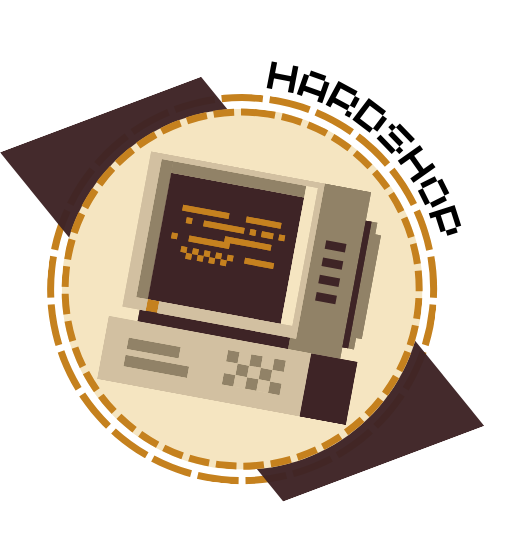
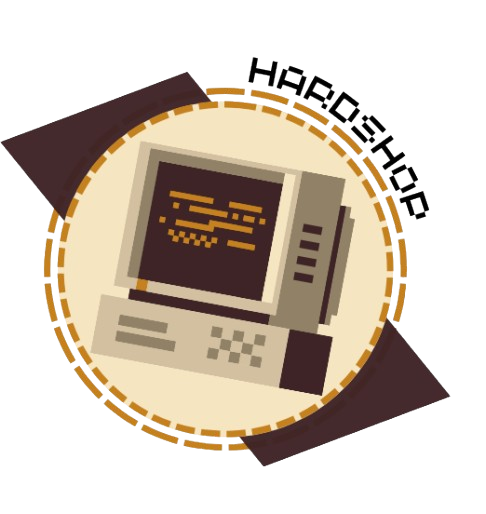
020924

diff --git a/index.html b/index.html
@@ -4,10 +4,16 @@
     <meta charset="UTF-8">
     <meta http-equiv="X-UA-Compatible" content="IE=edge">
     <meta name="viewport" content="width=device-width, initial-scale=1.0">
+    <link rel="shortcut icon" href="img/Hardshop_favicon.png" type="image/x-icon">
+    <link rel="stylesheet" href="css/reset.css">
+    <link rel="stylesheet" href="css/style.css">
     <title>HardShop</title>
 </head>
 <body>
     <header>
+        <div class="logo">
+            <img src="img/Hardshop_inicial.png" alt="" class="img_logo">
+        </div>
         <nav>
 
         </nav>

diff --git a/css/style.css b/css/style.css
@@ -1,0 +1,12 @@
+.logo{
+    margin-left: 5%;
+    padding: 0.5%;
+}
+
+.img_logo{
+    width: 17%;
+}
+
+.img_banner{
+    width: 100%;
+}
